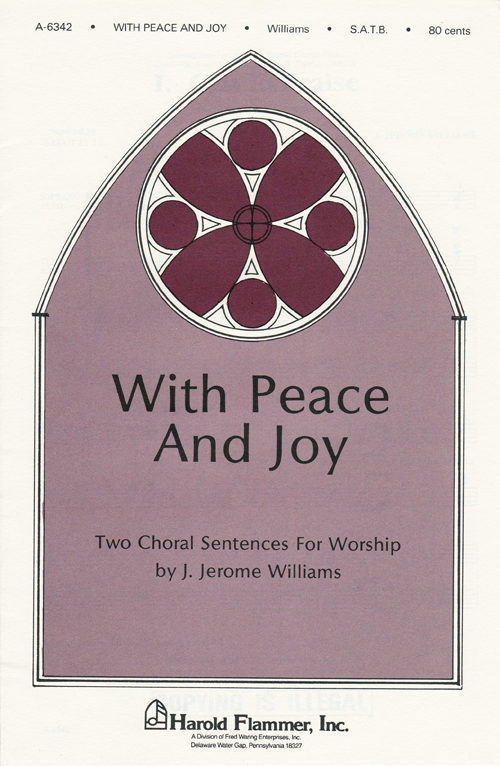
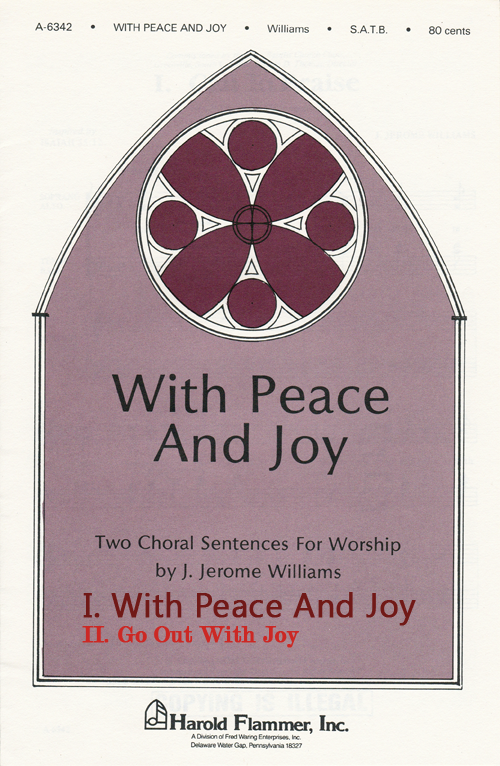
add call to praise and go out with joy

Changed region(s): [[0.21, 0.7507, 0.84, 0.8407], [0.15, 0.7807, 0.21, 0.8407]]

diff --git a/gs.html b/gs.html
@@ -52,7 +52,8 @@
         <a  href="pub_data_view.html?song=carol_for_two_seasons"><img src="images/carol_for_two_seasons.png" alt="" width="500" ></a>
         <a  href="pub_data_view.html?song=in_gods_name"><img src="images/in_gods_name.png" alt="" width="500" ></a>
         <a  href="pub_data_view.html?song=no_hands_but_yours"><img src="images/no_hands_but_yours.png" alt="" width="500" ></a>
-	    <a  href="pub_data_view.html?song=with_peace_and_joy"><img src="images/with_peace_and_joy.png" alt="" width="500" ></a>
+	    <a  href="pub_data_view.html?song=call_to_praise"><img src="images/call_to_praise.png" alt="" width="500" ></a>
+        <a  href="pub_data_view.html?song=go_out_with_joy"><img src="images/go_out_with_joy.png" alt="" width="500" ></a>
         <a  href="pub_data_view.html?song=there_is_a_balm"><img src="images/there_is_a_balm.png" alt="" width="500" ></a>
     </div>
         

diff --git a/up.html b/up.html
@@ -54,7 +54,7 @@
         <a  href="pub_data_view.html?song=bound_for_the_promised_land"><img src="images/bound_for_the_promised_land.png" alt="" width="500" ></a>
 	    <a  href="pub_data_view.html?song=cross_of_jesus"><img src="images/cross_of_jesus.png" alt="" width="500" ></a>
         <a  href="pub_data_view.html?song=god_is_wisdom_god_is_love"><img src="images/god_is_wisdom_god_is_love.png" alt="" width="500" ></a>
-
+        <a  href="pub_data_view.html?song=and_this_shall_be_his_name"><img src="images/and_this_shall_be_his_name.png" alt="" width="500" ></a>
         <a  href="pub_data_view.html?song=fantasy_on_joy_to_the_world"><img src="images/fantasy_on_joy_to_the_world.png" alt="" width="500" ></a>
 
     </div>
